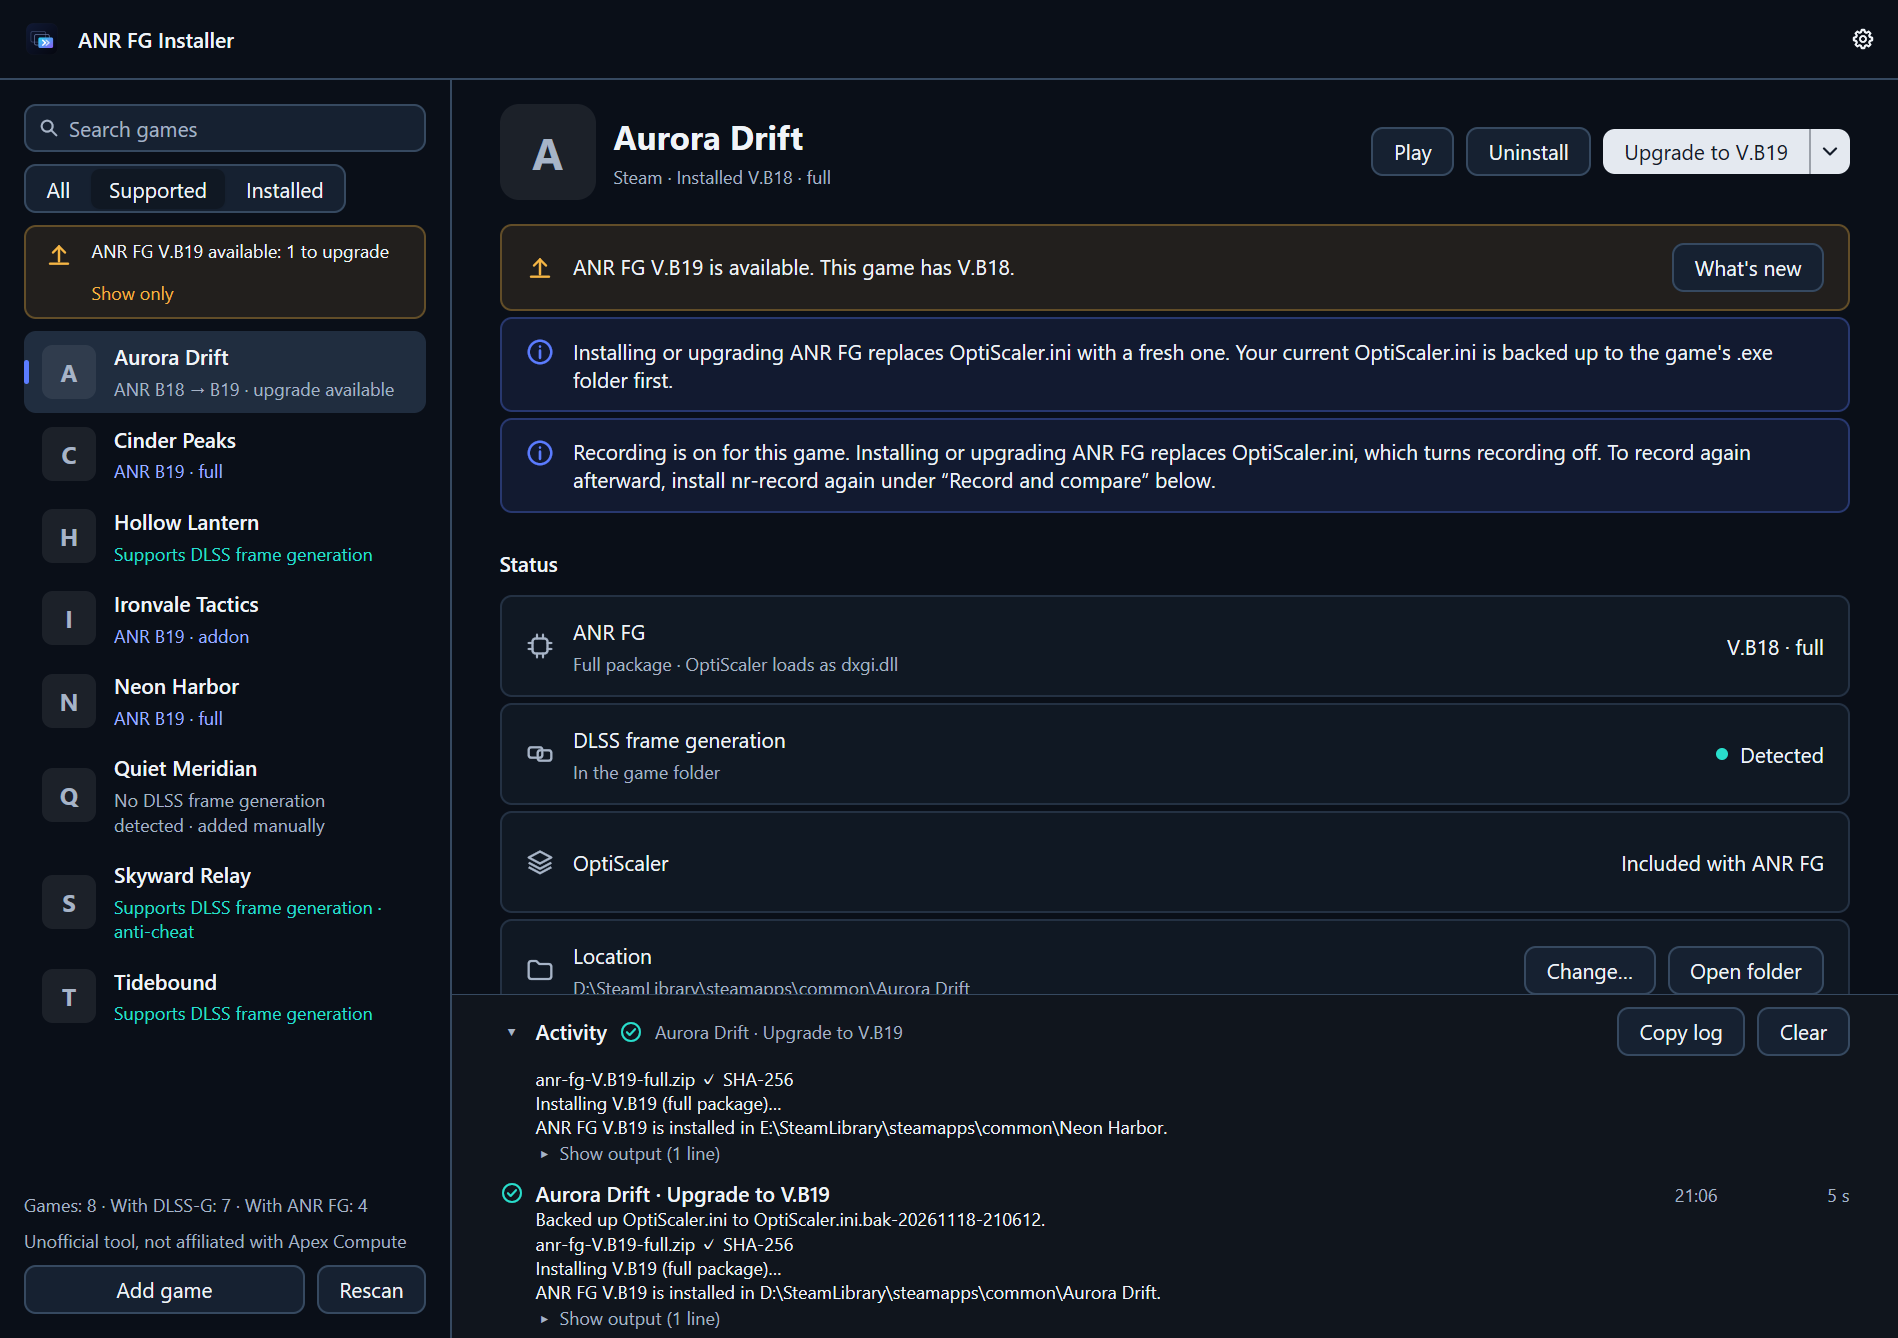
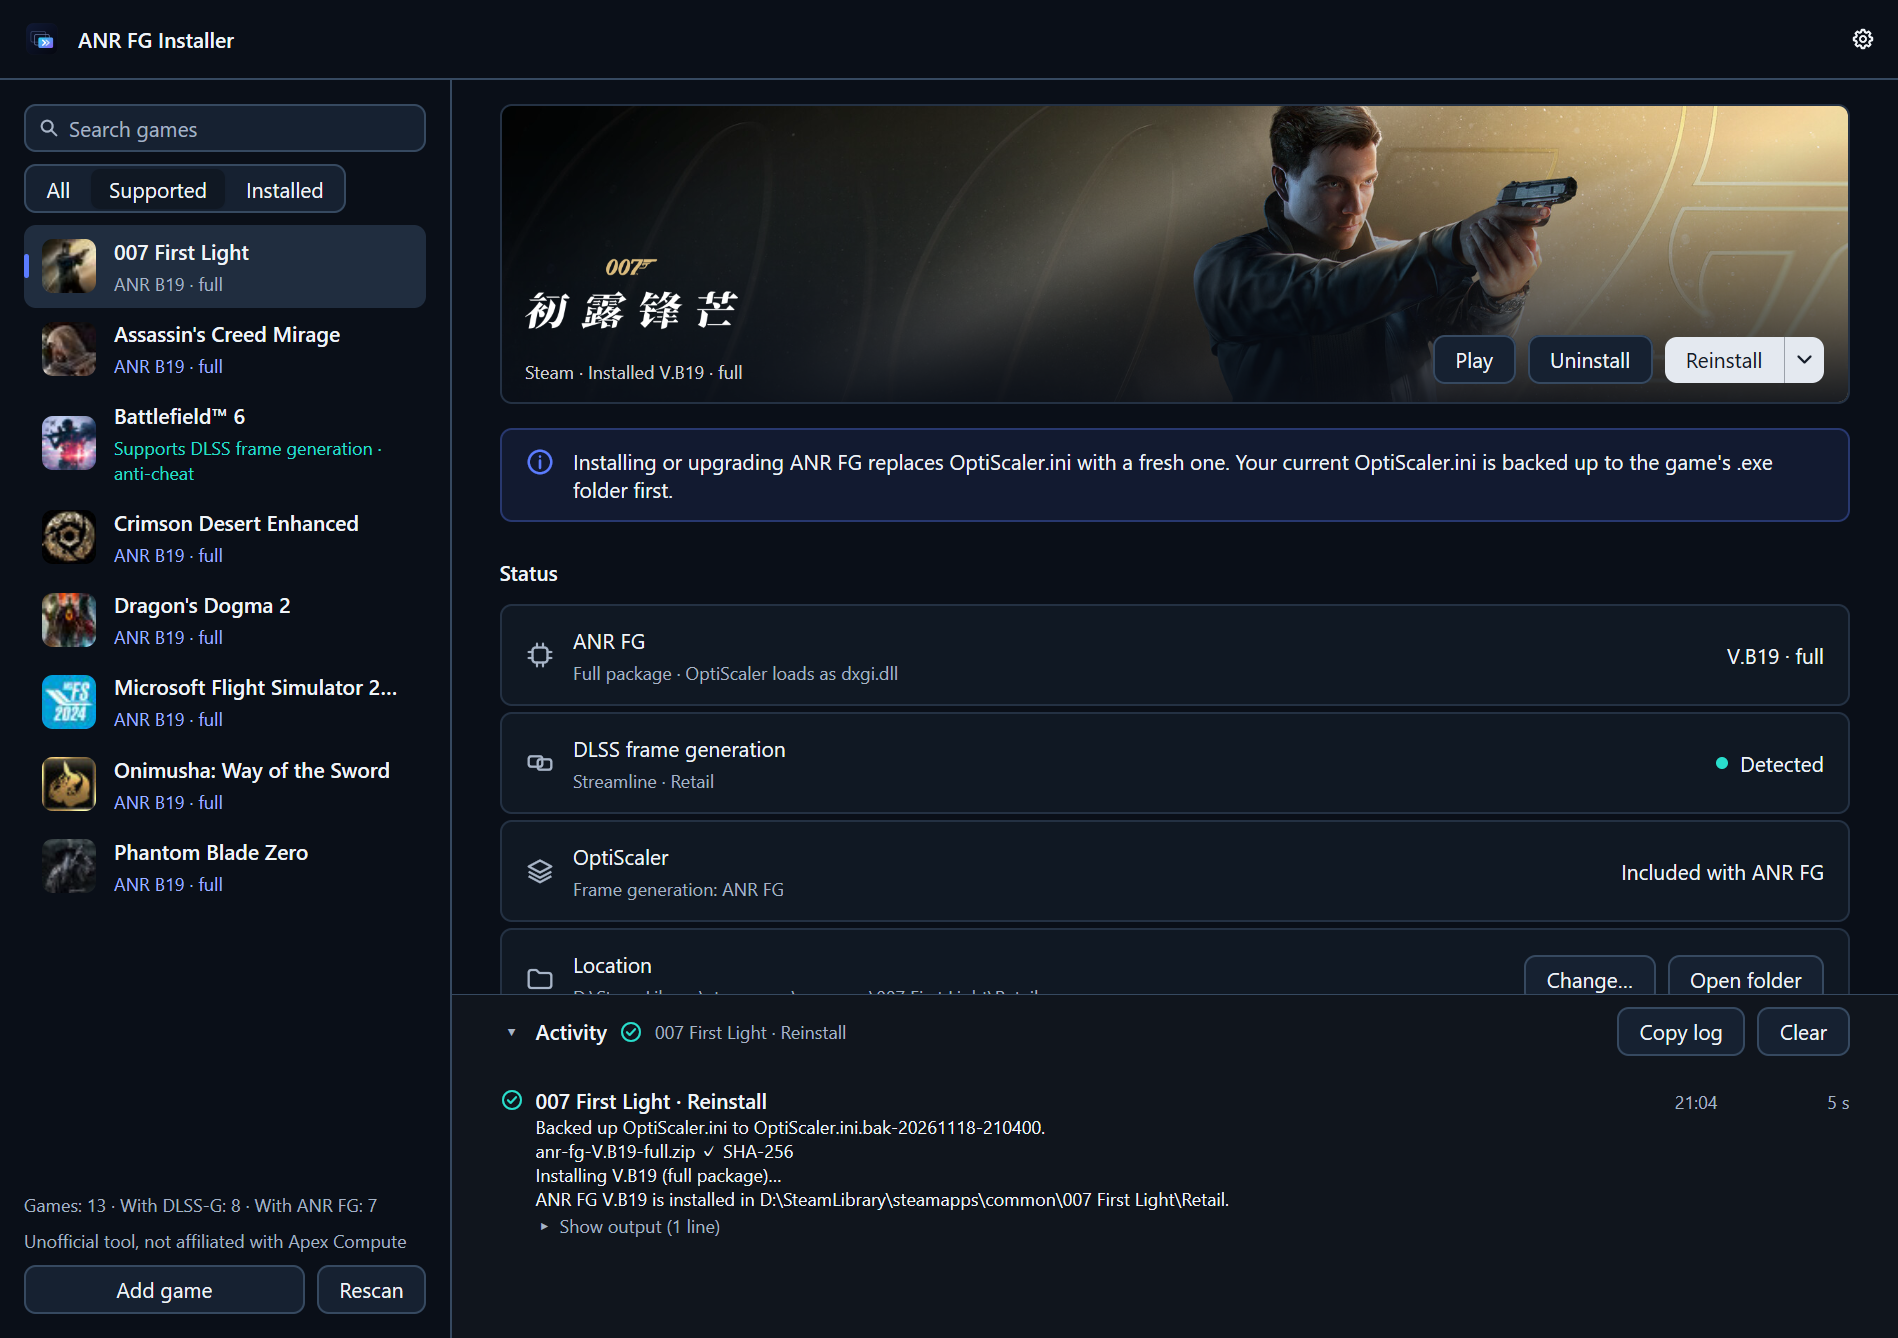
docs: draw the README screenshots from the Steam library
The owner asked for the real list of games in the screenshots rather
than made-up ones. The generator now reads the Steam games on the
computer that runs it, as the app does: their scans, Steam's cached
pictures and the versions in the user's version cache, with no
network. The release list, the activity log and the recordings stay
made up, as the app would need the network and nr-record for them.

The version cache is read once before the fixtures: testApp points
the cache at a scratch folder for the rest of the test.

diff --git a/gui/screenshots_test.go b/gui/screenshots_test.go
@@ -14,10 +14,13 @@ import (
 
 	"anr-installer/gui/activity"
 	"anr-installer/gui/i18n"
-	"anr-installer/internal/detect"
+	"anr-installer/internal/pkg"
+	"anr-installer/internal/steam"
 )
 
-// The README screenshots, drawn from made-up games in each language of the READMEs. Run from the repository root:
+// The README screenshots, drawn in each language of the READMEs from the Steam games on this computer: their scans
+// and Steam's pictures of them, read as the app reads them, with no network. The release list, the log and the
+// recordings are made up. Run from the repository root:
 //
 //	go test -tags screenshots -run TestScreenshots ./gui
 //
@@ -28,64 +31,59 @@ const shotWidth, shotHeight, shotScale = 1265, 892, 1.5
 
 var shotLangs = map[string]string{"en": "en", "zh-Hans": "zh-CN", "ja": "ja"}
 
-// shotApp is a made-up library: games with ANR FG, one to upgrade, one with anti-cheat and one added by hand.
-func shotApp(t *testing.T) *app {
+// shotApp is recordApp with this computer's Steam games, in language lang, the first supported one chosen.
+// versions tells the versions of ANR FG installed in them.
+func shotApp(t *testing.T, lang string, versions *pkg.VersionCache) *app {
 	a := recordApp(t)
+	i18n.SetLang(lang)                                     // after testApp, which sets English; Steam's pictures follow it
 	t.Setenv("APPDATA", `C:\Users\Player\AppData\Roaming`) // the data folder the settings show
-	a.providers = map[string]string{"aa": "V.B18", "bb": "V.B19"}
-	a.games = []*game{
-		{Name: "Aurora Drift", Dir: `D:\SteamLibrary\steamapps\common\Aurora Drift`},
-		{Name: "Cinder Peaks", Dir: `D:\SteamLibrary\steamapps\common\Cinder Peaks`},
-		{Name: "Hollow Lantern", Dir: `D:\SteamLibrary\steamapps\common\Hollow Lantern`},
-		{Name: "Ironvale Tactics", Dir: `E:\SteamLibrary\steamapps\common\Ironvale Tactics`},
-		{Name: "Neon Harbor", Dir: `E:\SteamLibrary\steamapps\common\Neon Harbor`},
-		{Name: "Quiet Meridian", Dir: `D:\Games\Quiet Meridian`, Manual: true},
-		{Name: "Skyward Relay", Dir: `E:\SteamLibrary\steamapps\common\Skyward Relay`},
-		{Name: "Tidebound", Dir: `D:\SteamLibrary\steamapps\common\Tidebound`},
+	for _, info := range versions.Infos {
+		a.providers[info.ProviderSHA256] = info.Version
 	}
-	results := []detect.Result{
-		{Installed: detect.KindFull, Proxy: "dxgi.dll", ANRHash: "aa", OptiINI: true},
-		{Installed: detect.KindFull, Proxy: "dxgi.dll", ANRHash: "bb"},
-		{},
-		{Installed: detect.KindAddon, Proxy: "winmm.dll", ANRHash: "bb", OptiINI: true, UserOpti: true},
-		{Installed: detect.KindFull, Proxy: "dxgi.dll", ANRHash: "bb"},
-		{},
-		{AntiCheat: []string{"Easy Anti-Cheat"}},
-		{},
-	}
-	for i, g := range a.games {
-		r := results[i]
-		r.Root, r.ExeDir, r.Exe = g.Dir, g.Dir, g.Dir+`\`+g.Name+".exe"
-		if !g.Manual {
-			r.DLSSG = []string{g.Dir + `\nvngx_dlssg.dll`}
+	a.games = nil
+	for _, s := range steam.Games(steam.Libraries()) {
+		g := &game{Name: s.Name, AppID: s.AppID, Dir: s.Dir}
+		g.Scan, _ = scanGame(g.Dir, "", false)
+		im := steam.GameImages(g.AppID, steamLanguage())
+		hero := im.Hero
+		if hero == "" {
+			hero = im.Header
 		}
-		g.Scan = &r
+		g.Icon, g.Hero, g.Logo = shotBitmap(im.Icon), shotBitmap(hero), shotBitmap(im.Logo)
+		a.games = append(a.games, g)
 	}
-	// recordApp's recordings are Aurora Drift's.
-	aurora := a.games[0]
-	aurora.Recorder, aurora.Scan.NRRecord = true, true
-	aurora.Scan.ANRDll = aurora.Dir + `\OptiScaler\custom\Apex Neural Rendering FG\dlssg\nvngx_dlssg.dll`
+	if len(a.games) == 0 {
+		t.Skip("no Steam games on this computer")
+	}
+	a.row = 0
+	a.filter()
+	a.relabelVersions()
 	return a
 }
 
-// shotLog is a log with the install of ANR FG in Neon Harbor and the upgrade of Aurora Drift.
+func shotBitmap(path string) *ui.Bitmap {
+	if path == "" {
+		return nil
+	}
+	data, err := os.ReadFile(path)
+	if err != nil {
+		return nil
+	}
+	bm, _ := ui.DecodeBitmap(data)
+	return bm
+}
+
+// shotLog is a log with a reinstall of ANR FG in the chosen game, as the app writes it.
 func shotLog(a *app) {
 	at := time.Date(2026, 11, 18, 21, 4, 0, 0, time.Local)
-	aurora, neon := a.games[0], a.games[4]
-	tk := a.log.Begin(gameTask(neon, i18n.T("install.v", "V.B19")), at)
+	g := a.selected()
+	tk := a.log.Begin(gameTask(g, i18n.T("reinstall")), at)
+	tk.Step(activity.LevelInfo, i18n.T("backup.file", "OptiScaler.ini", "OptiScaler.ini.bak-20261118-210400"))
 	tk.Step(activity.LevelInfo, "anr-fg-V.B19-full.zip ✓ SHA-256")
 	tk.Step(activity.LevelInfo, i18n.T("running.install", "V.B19", "full"))
-	tk.Step(activity.LevelInfo, i18n.T("done.install", "V.B19", neon.Dir))
-	tk.Out(`ANR FG (Apex Neural Rendering) installed in ` + neon.Dir + `, OptiScaler as dxgi.dll`)
-	tk.Finish(at.Add(6*time.Second), "")
-
-	tk = a.log.Begin(gameTask(aurora, i18n.T("upgrade", "V.B19")), at.Add(2*time.Minute))
-	tk.Step(activity.LevelInfo, i18n.T("backup.file", "OptiScaler.ini", "OptiScaler.ini.bak-20261118-210612"))
-	tk.Step(activity.LevelInfo, "anr-fg-V.B19-full.zip ✓ SHA-256")
-	tk.Step(activity.LevelInfo, i18n.T("running.install", "V.B19", "full"))
-	tk.Step(activity.LevelInfo, i18n.T("done.install", "V.B19", aurora.Dir))
-	tk.Out(`ANR FG (Apex Neural Rendering) installed in ` + aurora.Dir + `, OptiScaler as dxgi.dll (kept nr_fg.ini: True)`)
-	tk.Finish(at.Add(2*time.Minute+5*time.Second), "")
+	tk.Step(activity.LevelInfo, i18n.T("done.install", "V.B19", g.Scan.ExeDir))
+	tk.Out(`ANR FG (Apex Neural Rendering) installed in ` + g.Scan.ExeDir + `, OptiScaler as dxgi.dll (kept nr_fg.ini: True)`)
+	tk.Finish(at.Add(5*time.Second), "")
 	a.logOpen = true
 }
 
@@ -102,11 +100,10 @@ func saveShot(t *testing.T, img image.Image, name string) {
 }
 
 func TestScreenshots(t *testing.T) {
+	// The user's, read before testApp moves the cache to a scratch folder for the rest of the test.
+	versions := pkg.LoadVersionCache()
 	for lang, suffix := range shotLangs {
-		a := shotApp(t)
-		i18n.SetLang(lang) // after testApp, which sets English
-		a.row = 0          // Aurora Drift
-		a.relabelVersions()
+		a := shotApp(t, lang, versions)
 		saveShot(t, ui.Render(a.view, shotWidth, shotHeight, shotScale), "game."+suffix+".png")
 
 		shotLog(a)
@@ -117,18 +114,23 @@ func TestScreenshots(t *testing.T) {
 		a.settings.cacheSize = 46_700_000
 		saveShot(t, ui.Render(a.view, shotWidth, shotHeight, shotScale), "settings."+suffix+".png")
 
-		recordShot(t, lang, suffix)
+		recordShot(t, lang, suffix, versions)
 	}
 }
 
-// recordShot draws the "Record and compare" section of a game with recordings, which the real app shows only for
-// a game that nr-record recorded: from its heading row to the advanced options' card under it.
-func recordShot(t *testing.T, lang, suffix string) {
+// recordShot draws the "Record and compare" section of the chosen game with made-up recordings, which the real
+// app shows only for a game that nr-record recorded: from its heading row to the advanced options' card under it.
+func recordShot(t *testing.T, lang, suffix string, versions *pkg.VersionCache) {
 	const height = 1600 // the whole page, unscrolled
-	a := shotApp(t)
-	i18n.SetLang(lang)
-	a.row = 0
-	a.relabelVersions()
+	a := shotApp(t, lang, versions)
+	// recordApp's recordings of Delta, as the chosen game's, with nr-record in it.
+	g := a.selected()
+	for _, r := range a.rec.recordings {
+		if r.Of("Delta.exe") {
+			r.Game = filepath.Base(g.Scan.Exe)
+		}
+	}
+	g.Recorder, g.Scan.NRRecord = true, true
 	tt := ui.NewTester(a.view, shotWidth, height)
 	top, ok := tt.Find(i18n.T("rec.title"))
 	next, ok2 := tt.Find(i18n.T("advanced"))

diff --git a/docs/development.md b/docs/development.md
@@ -36,8 +36,9 @@ The release tier installs, upgrades, uninstalls and downgrades real packages in 
 `ANR_OLD_PKG` to an older `anr-fg-*-full.zip`. With an `nr-record-*-windows.zip` in `ANR_PKG_DIR` as well,
 it also installs nr-record into a scratch folder and removes it; without one, that test is skipped.
 
-The README screenshots are drawn from made-up games in `gui/screenshots_test.go`, in English, Simplified Chinese
-and Japanese. Draw them again when a view they show changes.
+The README screenshots are drawn by `gui/screenshots_test.go`, in English, Simplified Chinese and Japanese, from the
+Steam games on the computer that runs it, their pictures and the versions in its version cache; the release list,
+the log and the recordings are made up. It needs no network. Draw them again when a view they show changes.
 
 ## Rules
 
